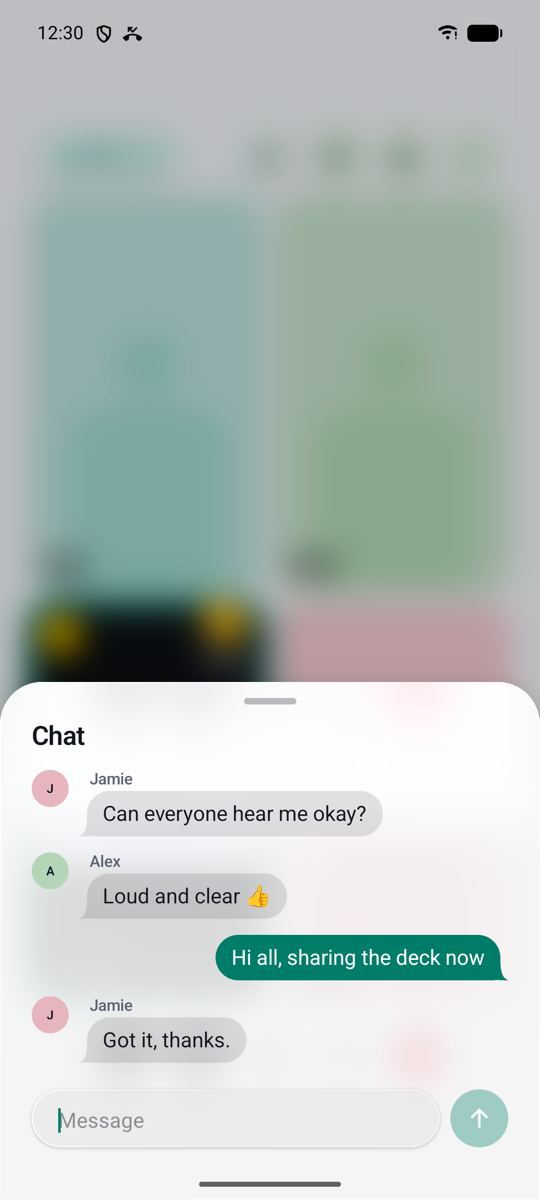
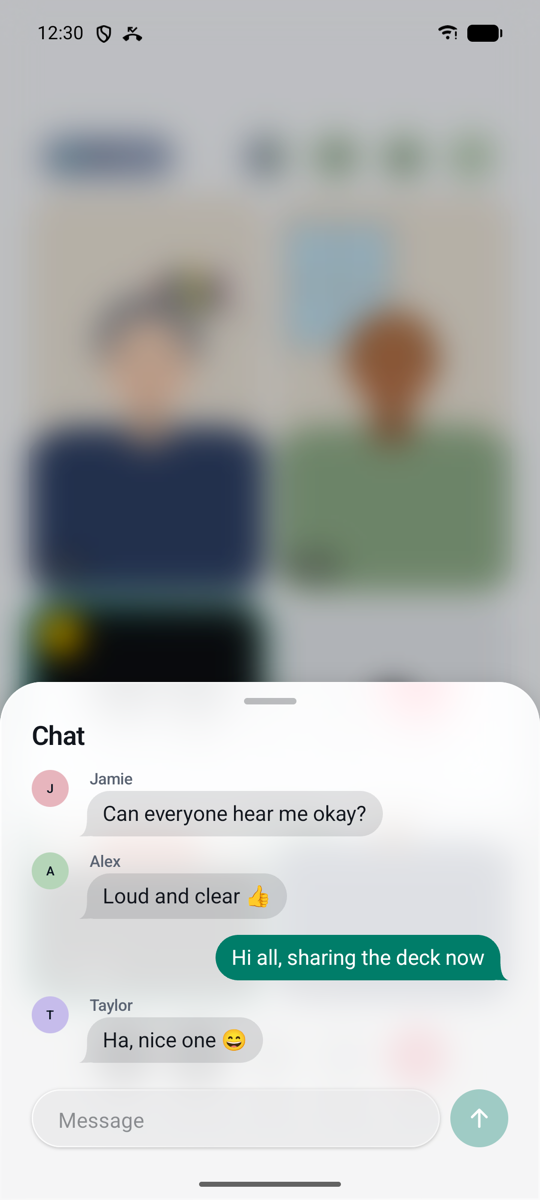
docs: README 스크린샷을 일러스트 데모 화면으로 바꿈

diff --git a/CHANGELOG.md b/CHANGELOG.md
@@ -60,6 +60,7 @@
 
 - `FakeRtcEngine`: 가상 시간으로 도는 가짜 엔진. 참가자, 말하기, 네트워크 끊김을 흉내 냅니다.
 - `VoxeraDemo`와 `DemoScenario`: 네트워크 없이 도는 데모 통화(1:1 음성과 영상, 4명, 9명, 12명, 화면 공유, 불안정한 네트워크). 데모 화면에는 늘 `DEMO` 표시가 붙습니다.
+- 데모 영상은 사람마다 피부색, 머리 모양, 옷, 방이 다른 일러스트를 코드로 그립니다. 이미지 파일을 쓰지 않아 SDK 크기가 늘지 않습니다.
 
 ### 알려진 제한
 

diff --git a/README.md b/README.md
@@ -23,7 +23,7 @@
   </tr>
 </table>
 
-스크린샷 속 영상은 데모용 사람 윤곽 그림입니다. 실제 인물 사진은 SDK와 저장소에 넣지 않았습니다.
+스크린샷 속 영상은 오프라인 데모가 코드로 그리는 일러스트입니다. 사람마다 생김새와 방이 다르고 눈을 깜빡이며 움직입니다. 실제 인물 사진은 SDK와 저장소에 넣지 않았습니다.
 
 ## 기능
 
